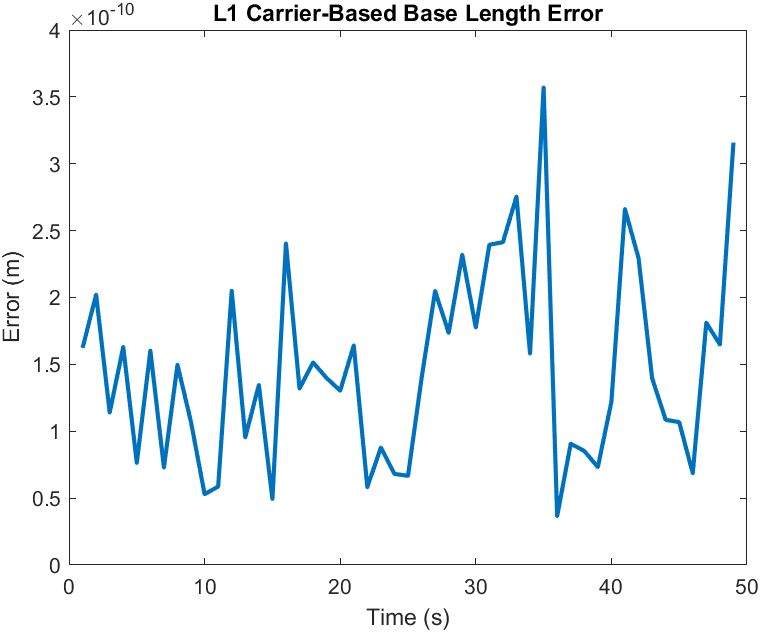
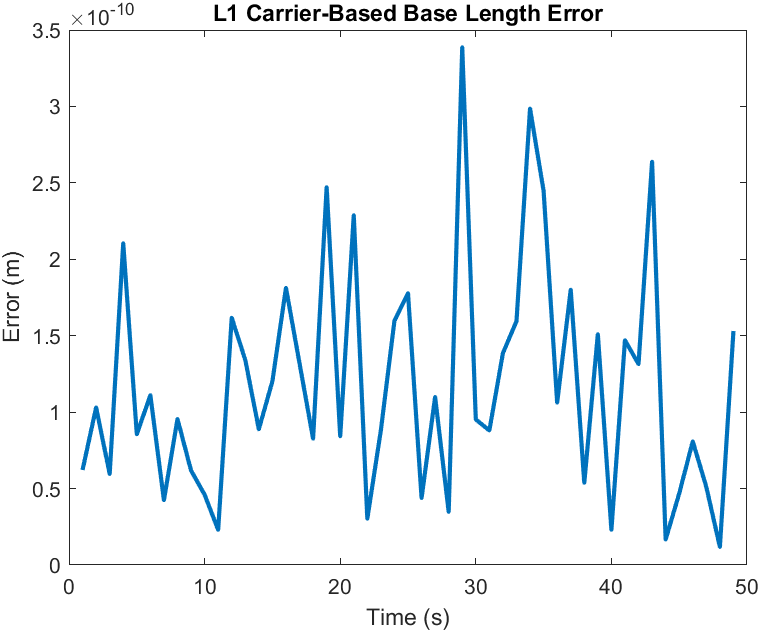
started p4

diff --git a/parts/p2.m b/parts/p2.m
@@ -234,7 +234,7 @@ for i = 1:length(idx)
     userCarrL2 = lambdaL2*RCVR0{idx(i,1),1}.L2.carr;
     userSatsL2 = RCVR0{idx(i,1),1}.L2.SVs;
     svPos = RCVR0{idx(i,1),1}.L1.svPos;
-    userPhi = lambdaL1*RCVR0{idx(i,1),1}.L1.carr; % convert carrier to m
+     %userPhi = lambdaL1*RCVR0{idx(i,1),1}.L1.carr; % convert carrier to m
     
     basePos = trim.pos(:,idx(i,2)); % position used for DGPS base station
     basePsr = RCVRT{idx(i,2),1}.L1.psr;
@@ -270,6 +270,8 @@ for i = 1:length(idx)
     
     err_d(i) = norm(out.rpv);
 end
+mean(err_d)
+std(err_d)
 
 figure()
 plot(err_d, 'lineWidth', 2);

diff --git a/parts/p4.m b/parts/p4.m
@@ -1,0 +1,11 @@
+%{
+    DGPS with dynamic base length. Trimble on roof of Woltosz and Novatel
+    on roof of car. Will attempt Lambda-method RTK and compare to
+    traditional single-difference DGPS solution (code-only).
+%}
+
+clear; clc; close all;
+
+%% --- Import Data
+load('RCVRT.mat'); % trimble (static on woltosz roof)
+load('RCVR1.mat'); % novatel on car
